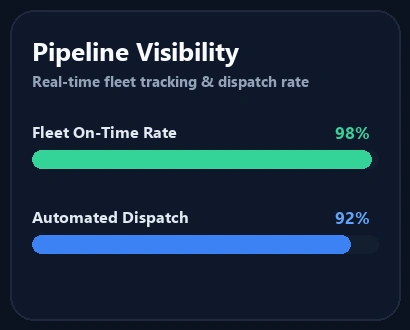
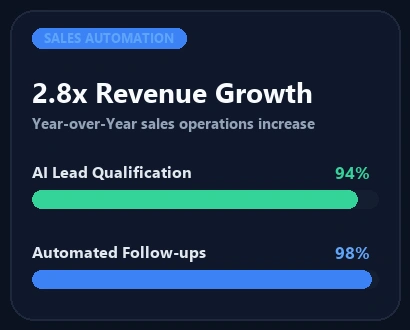
feat: add script for generating clean case study hero tiles and include initial Turbo Trans asset

diff --git a/scripts/generate-clean-hero-tiles.py b/scripts/generate-clean-hero-tiles.py
@@ -85,22 +85,24 @@ def gen_turbo_trans():
     
     img.convert('RGB').save(os.path.join(out_dir, 'turbo-trans-dispatch-fleet-tile.webp'), 'WEBP', quality=95)
     
-    # 2. Chart Tile: 410x330
+    # 2. Chart Tile: 410x330 (Revenue Growth & Automation)
     W_c, H_c = 410, 330
     img_c = Image.new('RGBA', (W_c, H_c), (11, 17, 32, 255))
     draw_c = ImageDraw.Draw(img_c)
     draw_c.rounded_rectangle([10, 10, W_c-10, H_c-10], radius=24, fill=(15, 23, 42, 255), outline=(30, 41, 59, 255), width=2)
     
-    draw_c.text((32, 32), "Pipeline Visibility", font=get_font(26, bold=True), fill=(248, 250, 252, 255))
-    draw_c.text((32, 70), "Real-time fleet tracking & dispatch rate", font=get_font(15, semibold=True), fill=(148, 163, 184, 255))
+    draw_pill_badge(draw_c, 32, 28, "SALES AUTOMATION", get_font(13, bold=True), (59, 130, 246, 45), (96, 165, 250, 255), px=12, py=5)
     
-    draw_c.text((32, 120), "Fleet On-Time Rate", font=get_font(16, semibold=True), fill=(226, 232, 240, 255))
-    draw_c.text((W_c-75, 120), "98%", font=get_font(17, bold=True), fill=(52, 211, 153, 255))
-    draw_progress_bar(draw_c, 32, 150, W_c-64, 18, 98, (52, 211, 153, 255))
+    draw_c.text((32, 72), "2.8x Revenue Growth", font=get_font(28, bold=True), fill=(248, 250, 252, 255))
+    draw_c.text((32, 112), "Year-over-Year sales operations increase", font=get_font(15, semibold=True), fill=(148, 163, 184, 255))
     
-    draw_c.text((32, 205), "Automated Dispatch", font=get_font(16, semibold=True), fill=(226, 232, 240, 255))
-    draw_c.text((W_c-75, 205), "92%", font=get_font(17, bold=True), fill=(96, 165, 250, 255))
-    draw_progress_bar(draw_c, 32, 235, W_c-64, 18, 92, (59, 130, 246, 255))
+    draw_c.text((32, 160), "AI Lead Qualification", font=get_font(16, semibold=True), fill=(226, 232, 240, 255))
+    draw_c.text((W_c-75, 160), "94%", font=get_font(17, bold=True), fill=(52, 211, 153, 255))
+    draw_progress_bar(draw_c, 32, 190, W_c-64, 18, 94, (52, 211, 153, 255))
+    
+    draw_c.text((32, 240), "Automated Follow-ups", font=get_font(16, semibold=True), fill=(226, 232, 240, 255))
+    draw_c.text((W_c-75, 240), "98%", font=get_font(17, bold=True), fill=(96, 165, 250, 255))
+    draw_progress_bar(draw_c, 32, 270, W_c-64, 18, 98, (59, 130, 246, 255))
     
     img_c.convert('RGB').save(os.path.join(out_dir, 'turbo-trans-pipeline-chart-tile.webp'), 'WEBP', quality=95)
     print("Turbo Trans generated.")
